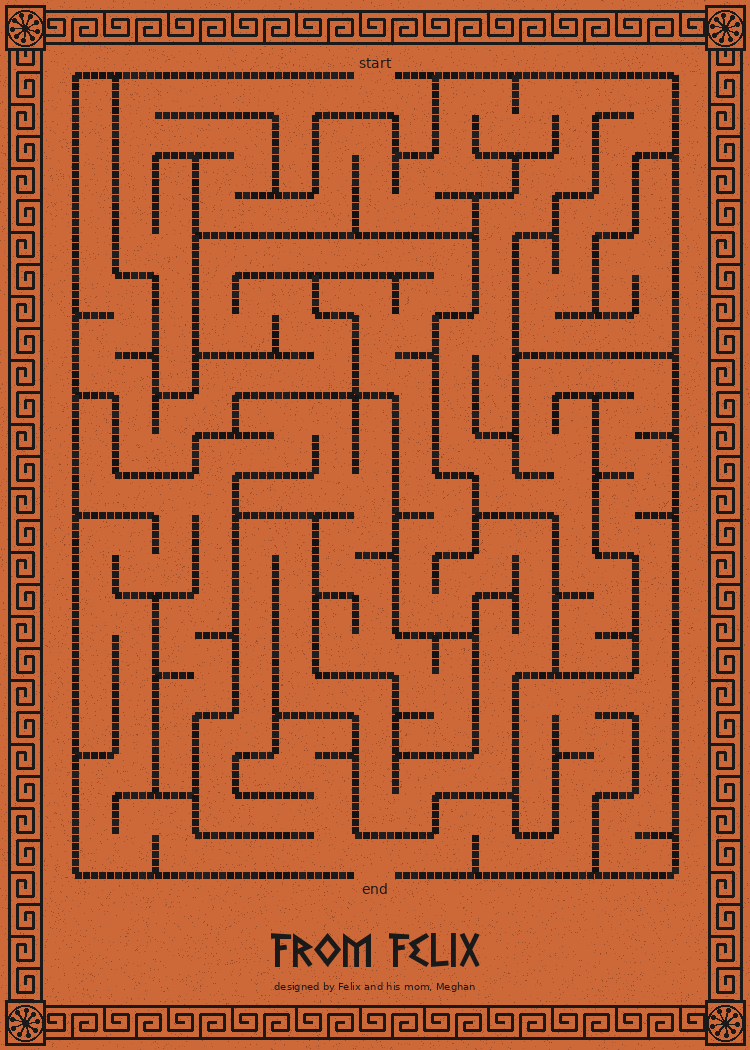
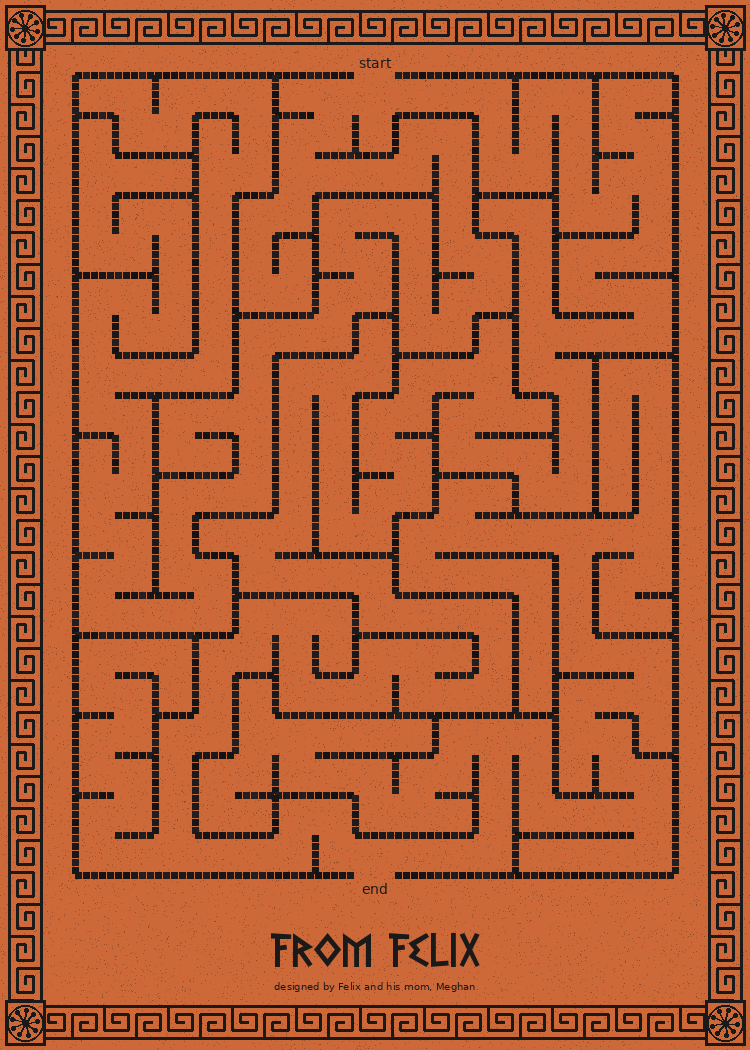
Generate 3 sheets with unique mazes per card

diff --git a/src/greek_design_system.py b/src/greek_design_system.py
@@ -645,7 +645,6 @@ def generate_greek_card_back(
 
 def generate_printable_sheet(
     card_front: Image,
-    card_back: Image,
     page_width_in: float = 8.5,
     page_height_in: float = 11,
     dpi: int = 300
@@ -655,6 +654,7 @@ def generate_printable_sheet(
     Returns (front_sheet, back_sheet) images.
     Cards are 2.5" x 3.5", arranged on letter-size paper.
     Back sheet is horizontally mirrored so cards align when printed double-sided.
+    Each card on the back gets a unique maze.
     """
     page_width = int(page_width_in * dpi)
     page_height = int(page_height_in * dpi)
@@ -681,10 +681,13 @@ def generate_printable_sheet(
             front_sheet.paste(card_front, (x, y))
 
     # Create back sheet (mirrored horizontally for double-sided alignment)
+    # Each card gets a unique maze
     back_sheet = Image.new('RGB', (page_width, page_height), '#FFFFFF')
 
     for row in range(rows):
         for col in range(cols):
+            # Generate a fresh back card with unique maze
+            card_back = generate_greek_card_back()
             # Mirror horizontally: rightmost card on front = leftmost on back
             mirrored_col = cols - 1 - col
             x = start_x + mirrored_col * (card_width + margin)
@@ -717,13 +720,14 @@ def main():
     back.save(os.path.join(output_dir, "greek_card_back.png"), dpi=(300, 300))
     print("Saved: greek_card_back.png")
 
-    # Generate printable sheets for double-sided printing
-    front_sheet, back_sheet = generate_printable_sheet(front, back)
-    front_sheet.save(os.path.join(output_dir, "print_fronts.png"), dpi=(300, 300))
-    print("Saved: print_fronts.png (8.5x11 sheet with card fronts)")
+    # Generate 3 printable sheets for double-sided printing (each back has unique mazes)
+    for sheet_num in range(1, 4):
+        front_sheet, back_sheet = generate_printable_sheet(front)
+        front_sheet.save(os.path.join(output_dir, f"print_fronts_{sheet_num}.png"), dpi=(300, 300))
+        print(f"Saved: print_fronts_{sheet_num}.png (8.5x11 sheet with card fronts)")
 
-    back_sheet.save(os.path.join(output_dir, "print_backs.png"), dpi=(300, 300))
-    print("Saved: print_backs.png (8.5x11 sheet with card backs - flip on long edge)")
+        back_sheet.save(os.path.join(output_dir, f"print_backs_{sheet_num}.png"), dpi=(300, 300))
+        print(f"Saved: print_backs_{sheet_num}.png (8.5x11 sheet with unique mazes - flip on long edge)")
 
 
 if __name__ == "__main__":
